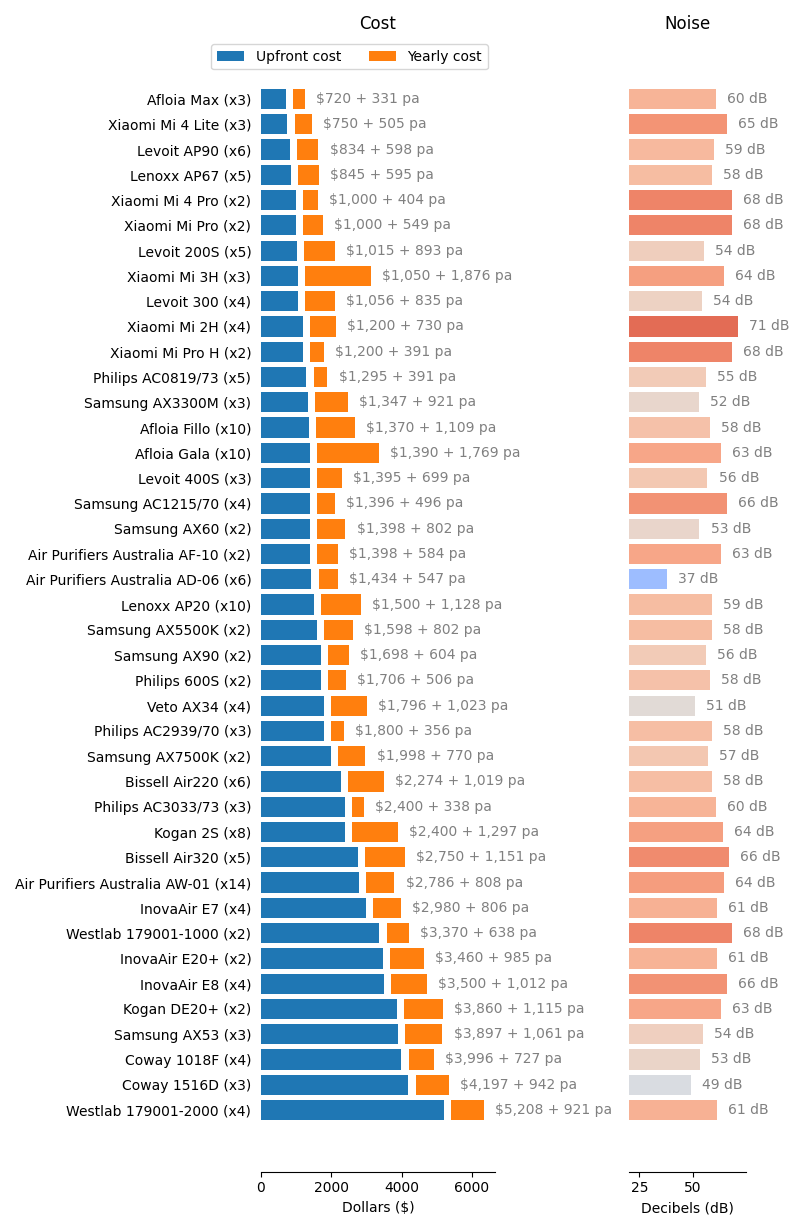
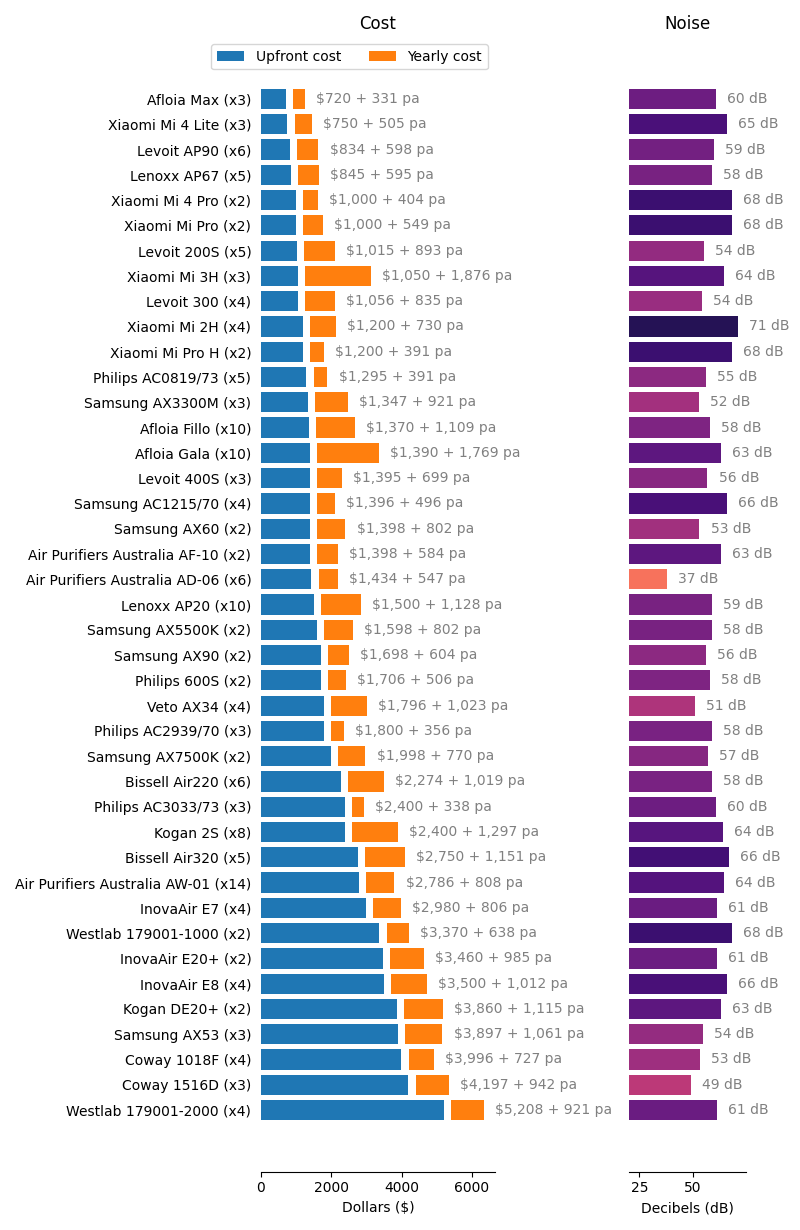
Quick push

Changed region(s): [[0.7812, 0.0618, 0.9375, 0.9268]]

diff --git a/products/dashboard.html b/products/dashboard.html
@@ -46,11 +46,11 @@ Every room is different. Answer these quick questions to sort the data by what's
             <p>How big is the room you want to put your air purifier in?</p>
 
             <input type="radio" id='smallop' value="small" name="volume" onClick="update(this.form)">
-            <label for="smallop">Small (37m3)</label>
+            <label for="smallop">Small (37m<sup>3</sup>)</label>
             <input type="radio" id='mediumop' value="medium" name="volume" checked onClick="update(this.form)">
-            <label for="mediumop">Medium (78m3)</label>
+            <label for="mediumop">Medium (78m<sup>3</sup>)</label>
             <input type="radio" id='largeop' value="large" name="volume" onClick="update(this.form)">
-            <label for="largeop">Large (155m3)</label>
+            <label for="largeop">Large (155m<sup>3</sup>)</label>
         </fieldset>
         <fieldset id="qualityoptions">
             <p>How high do you want the air quality to be in this room?</p>

diff --git a/aircleaning/produce.py b/aircleaning/produce.py
@@ -21,9 +21,9 @@ repodir = os.path.dirname(os.path.dirname(__file__))
 productsdir = os.path.join(repodir, 'products')
 
 
-def cost_analysis(volume, quality, path=productsdir, name='default'):
+def cost_analysis(data=None, /, volume='medium', quality='good', path=productsdir, name='default'):
 
-    data = analyse.cost_analysis(None, volume, quality)
+    data = analyse.cost_analysis(data, volume, quality)
     data = data.sort_values('upfront')
     # data = data.loc[data['nunits'] < 6]
     data = data.drop('Dyson', level='manufacturer')
@@ -68,7 +68,7 @@ def cost_analysis(volume, quality, path=productsdir, name='default'):
         )
 
     noisecolours = tuple(
-        map(plt.get_cmap('coolwarm'), Normalize(20, 80)(data['noise']))
+        map(plt.get_cmap(load.NOISECMAP), Normalize(20, 80)(data['noise']))
         )
     bars = ax2.barh(y_pos, data['noise'], color=noisecolours)
     ax2.set_yticks(y_pos, labels=[])
@@ -95,6 +95,8 @@ def cost_analysis(volume, quality, path=productsdir, name='default'):
 def make_cost_analysis_form_channel(overname, data, /):
     levels = data['levels'].astype(int)
     unit = data.attrs['units']['levels']
+    if unit[-1].isnumeric():
+        unit = f"{unit[:-1]}<sup>{unit[-1]}</sup>"
     strn = ''
     for i, name in enumerate(data.index):
         checked = 'checked ' if i == 1 else ''
@@ -214,30 +216,52 @@ def multi_cost_analysis(path=productsdir):
 
     for voli, vol in enumerate(vols['levels']):
         for quali, qual in enumerate(quals['levels']):
-            cost_analysis(vol, qual, path=path, name=f"{voli}_{quali}")
+            cost_analysis(
+                volume=vol, quality=qual,
+                path=path, name=f"{voli}_{quali}",
+                )
 
 
-def synoptic(path=productsdir):
+def synoptic(data=None, /, volume='medium', quality='good', path=productsdir):
 
-    data = analyse.synoptic_analysis()
+    if isinstance(volume, str):
+        volstr = volume
+        volume = load.get_volume_data()['levels'].loc[volume]
+    else:
+        volstr = f"{volume} m^3"
+    if isinstance(quality, str):
+        qualstr = quality
+        quality = load.get_quality_data()['levels'].loc[quality]
+    else:
+        qualstr = f"{quality} ACH"
 
-    cmap = plt.get_cmap('coolwarm')
+    title = f"Air cleaners on the market:\nefficacy for a {volstr} sized room with {qualstr} air quality."
+
+    data = analyse.synoptic_analysis(data, volume=volume)
+
     norm = Normalize(20, 80)
+    cmap = plt.get_cmap(load.NOISECMAP)
     noisecolours = tuple(
         map(cmap, norm(data['noise']))
         )
 
     fig, ax = plt.subplots()
+    ax.set_title(title)
 
     fig.set_size_inches(8, 8)
     fig.set_tight_layout(True)
 
     ax.scatter(
-        data['efficiency'], data['maxsize'],
+        data['costeff'], data['ach'],
         c=noisecolours, s=60, edgecolors='grey'
         )
-    ax.set_xlabel('Cost efficiency\n(clean air-changes per dollar)')
-    ax.set_ylabel("Cleaning power\n(maximum cleanable rooms)")
+    ax.set_xlabel("Cost efficiency\n(air changes per dollar)")
+    ax.set_ylabel("Air quality\n(air changes per hour)")
+    getnom = lambda x0, x1: x1 - x0
+    nomx = getnom(*ax.get_xlim())
+    nomy = getnom(*ax.get_ylim())
+    ax.axhline(quality)
+    ax.text(0.01 * nomx, quality + 0.01 * nomy, 'Good quality')
 
     plt.colorbar(
         mpl.cm.ScalarMappable(norm=norm, cmap=cmap),
@@ -251,19 +275,19 @@ def synoptic(path=productsdir):
         tuple(
             ax.text(
                 x, y, txt,
-                color="#4d4d4d", fontsize=6, fontname="DejaVu Sans",
+                color="#4d4d4d", fontsize=8, fontname="DejaVu Sans",
                 )
             for txt, x, y in zip(
                 map('\n'.join, data.index),
-                data['efficiency'],
-                data['maxsize'],
+                data['costeff'],
+                data['ach'],
                 )
             ), 
         expand_points=(2, 2),
         arrowprops=dict(
             arrowstyle="->", 
             color="#7F7F7F", 
-            lw=0.5
+            lw=0.65
             ),
         ax=ax,
         )

diff --git a/aircleaning/analyse.py b/aircleaning/analyse.py
@@ -47,27 +47,43 @@ def cost_analysis(data=None, /, volume='medium', quality='good'):
     return data
 
 
-def synoptic_analysis(data=None, /, volume='medium', quality='good'):
+def synoptic_analysis(data=None, /, volume='medium'):
 
     if data is None:
         data = load.get_main_data()
 
     if isinstance(volume, str):
         volume = load.get_volume_data()['levels'].loc[volume]
-    if isinstance(quality, str):
-        quality = load.get_quality_data()['levels'].loc[quality]
+
+    ach = data['cadr'] / volume
 
     cost = (
         + (data['filterchanges'] * data['filtercost'])
         + data['cost'] / load.NOMINALPERIOD
         ) / (24 * 365)
-    efficiency = data['cadr'] / volume / cost
-    maxsize = data['cadr'] / quality / volume
+    costeff = ach / cost
 
     return pd.concat(
-        dict(efficiency=efficiency, maxsize=maxsize, noise=data['noise']),
+        dict(ach=ach, costeff=costeff, noise=data['noise']),
         axis=1,
         )
+
+#     if isinstance(volume, str):
+#         volume = load.get_volume_data()['levels'].loc[volume]
+#     if isinstance(quality, str):
+#         quality = load.get_quality_data()['levels'].loc[quality]
+
+#     cost = (
+#         + (data['filterchanges'] * data['filtercost'])
+#         + data['cost'] / load.NOMINALPERIOD
+#         ) / (24 * 365)
+#     efficiency = data['cadr'] / volume / cost
+#     maxsize = data['cadr'] / quality / volume
+
+#     return pd.concat(
+#         dict(efficiency=efficiency, maxsize=maxsize, noise=data['noise']),
+#         axis=1,
+#         )
 
 
 ###############################################################################

diff --git a/aircleaning/load.py b/aircleaning/load.py
@@ -90,6 +90,8 @@ def get_quality_data():
 NOMINALPERIOD = 1
 NOMINALPOWERCOST = 0.2  # $/kWh
 
+NOISECMAP = 'magma_r'
+
 
 ###############################################################################
 ###############################################################################
